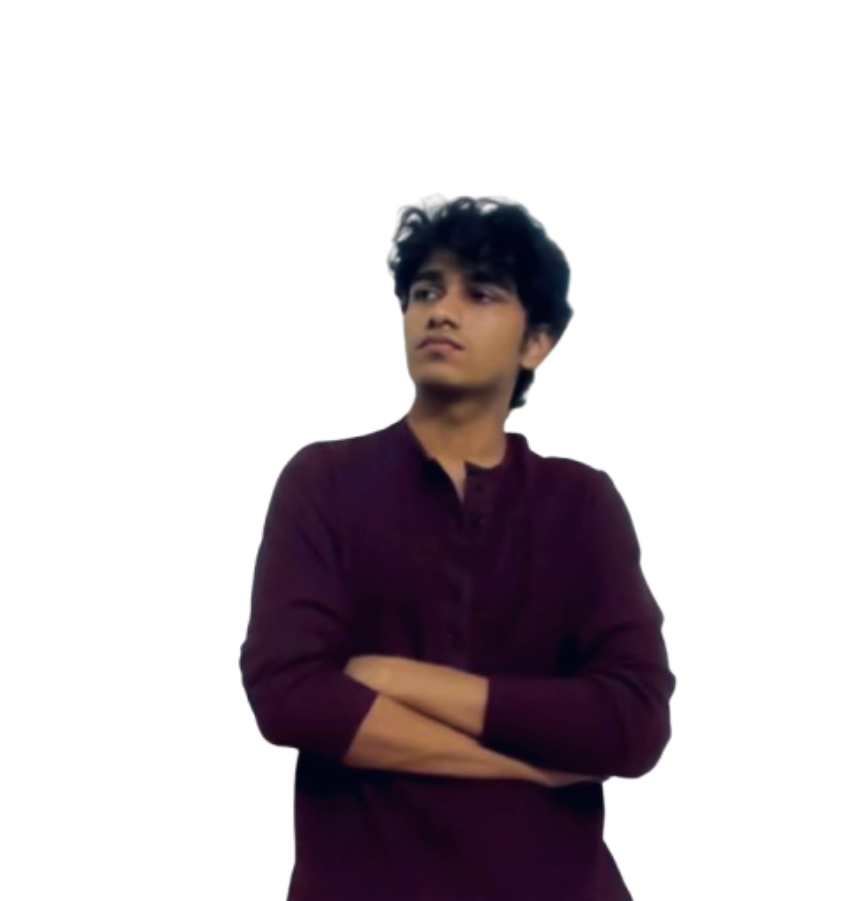
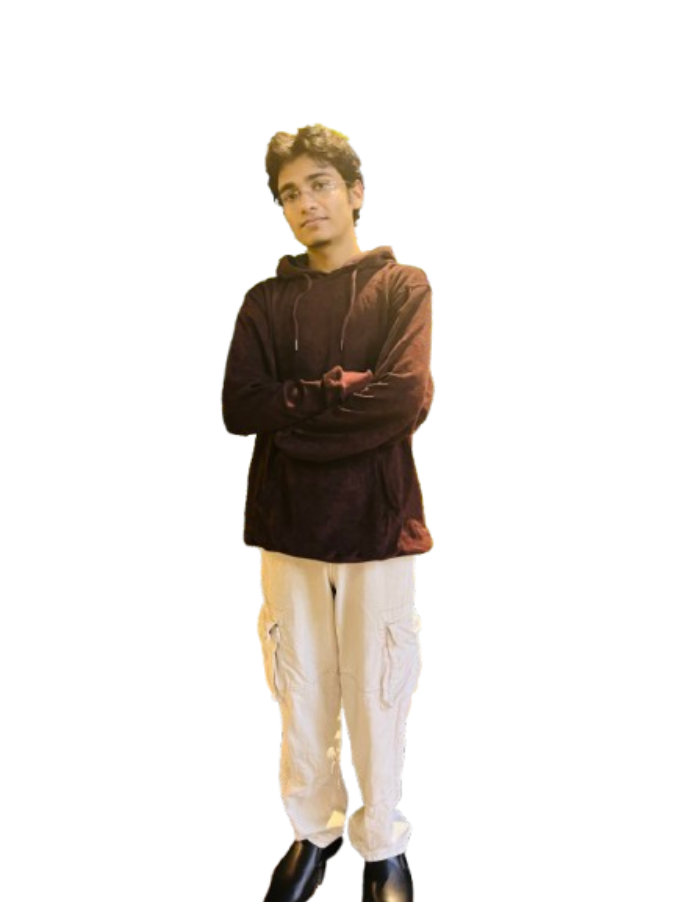
Use supplied cutout in hero and preloader

Changed region(s): [[0.2792, 0.1243, 0.8065, 1.0]]

diff --git a/src/index.css b/src/index.css
@@ -115,7 +115,7 @@ p { text-wrap: pretty; }
 .hero__intro { max-width: 30rem; font-size: clamp(1rem, 1.3vw, 1.2rem); line-height: 1.5; margin: 0; padding-top: 1.2rem; border-top: 1px solid var(--line); }
 .hero__portrait { grid-column: 2; grid-row: 1 / -1; align-self: end; justify-self: end; width: min(128%, 48rem); margin: 0 -6% -9rem 0; z-index: 1; transform-origin: bottom right; }
 .portrait-art { position: relative; isolation: isolate; }
-.portrait-art img { position: relative; z-index: 2; display: block; width: 100%; height: auto; -webkit-mask-image: url("./assets/portrait/quamar-cutout.png"); mask-image: url("./assets/portrait/quamar-cutout.png"); -webkit-mask-size: 100% 100%; mask-size: 100% 100%; -webkit-mask-repeat: no-repeat; mask-repeat: no-repeat; filter: drop-shadow(0 2rem 2rem rgba(11,59,46,.18)); }
+.portrait-art img { position: relative; z-index: 2; display: block; width: 100%; height: auto; filter: drop-shadow(0 2rem 2rem rgba(11,59,46,.18)); }
 .portrait-art__halo { position: absolute; z-index: 0; width: 72%; aspect-ratio: 1; left: 15%; top: 18%; border-radius: 50%; background: var(--green-soft); }
 .portrait-art__grid { display: none; }
 .portrait-art--compact .portrait-art__halo { background: var(--green-core); }

diff --git a/src/App.tsx b/src/App.tsx
@@ -1,8 +1,7 @@
 import { useEffect, useLayoutEffect, useRef, useState } from "react"
 import { gsap } from "gsap"
 import { ScrollTrigger } from "gsap/ScrollTrigger"
-import portraitCutout from "./assets/optimized/portrait/quamar-cutout.webp"
-import portraitOriginal from "./assets/portrait/quamar-original.png"
+import portraitCutout from "./assets/portrait/quamar-cutout.png"
 import {
   desktopProjects,
   mobileProjects,
@@ -95,7 +94,7 @@ function PortraitArtwork({ compact = false }: { compact?: boolean }) {
       <span className="portrait-art__halo" aria-hidden="true" />
       <span className="portrait-art__grid" aria-hidden="true" />
       <img
-        src={portraitOriginal}
+        src={portraitCutout}
         alt="Quamar Abrar standing with folded arms"
         decoding="async"
         fetchPriority="high"

diff --git a/docs/portfolio-handoff.md b/docs/portfolio-handoff.md
@@ -18,9 +18,9 @@ The preloader uses one Canvas render loop and a single normalized GSAP progress 
 
 The supplied bundle includes Quamar's transparent portrait, mobile screens,
 poster artwork, and Aurel & Ember packaging images. Optimized WebP assets are
-used at runtime; original files are retained alongside them. The portrait is
-wired into the hero from the 1170 × 1219 original image, masked with the
-transparent cutout; the cutout also supplies the preloader silhouette.
+used at runtime where provided; source files are retained alongside them.
+The 677 × 902 transparent portrait cutout is used directly in both the hero
+and preloader.
 Desktop website cards embed the project URLs in `src/data.ts`.
 
 - Mobile screen, poster, and packaging assets are mapped in `src/data.ts`.
